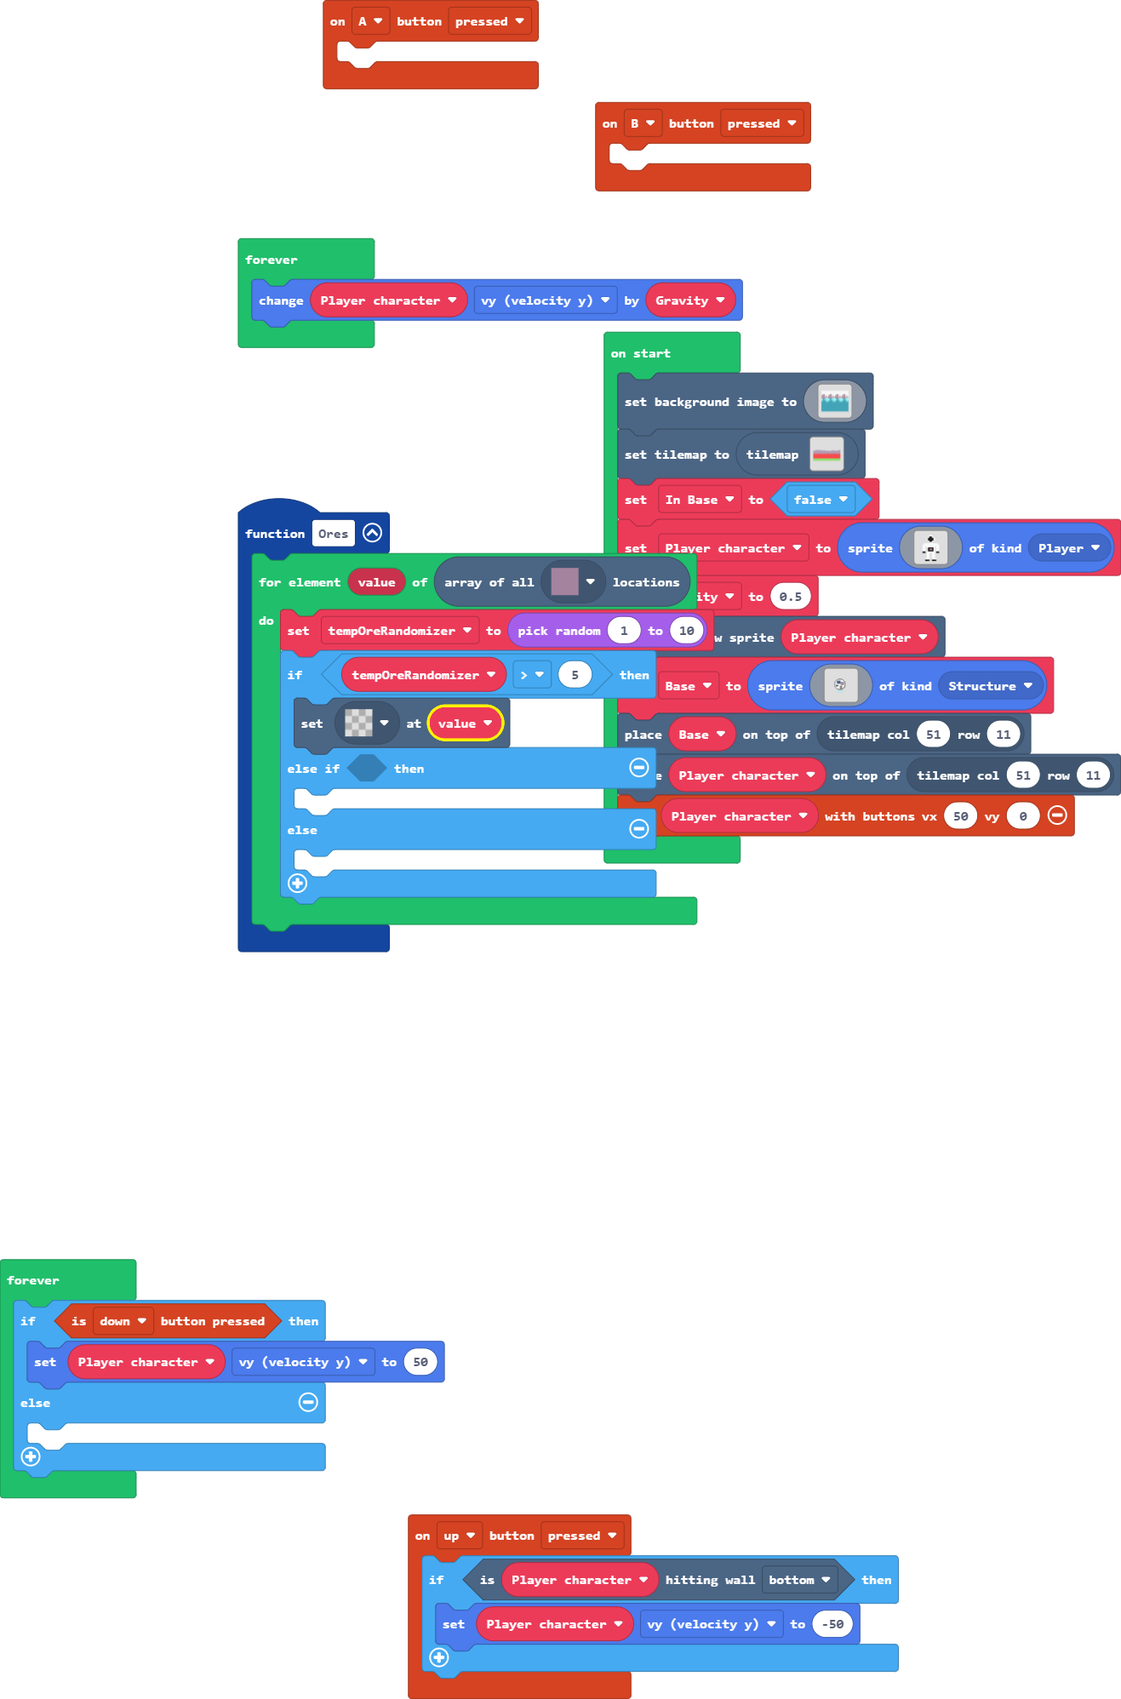
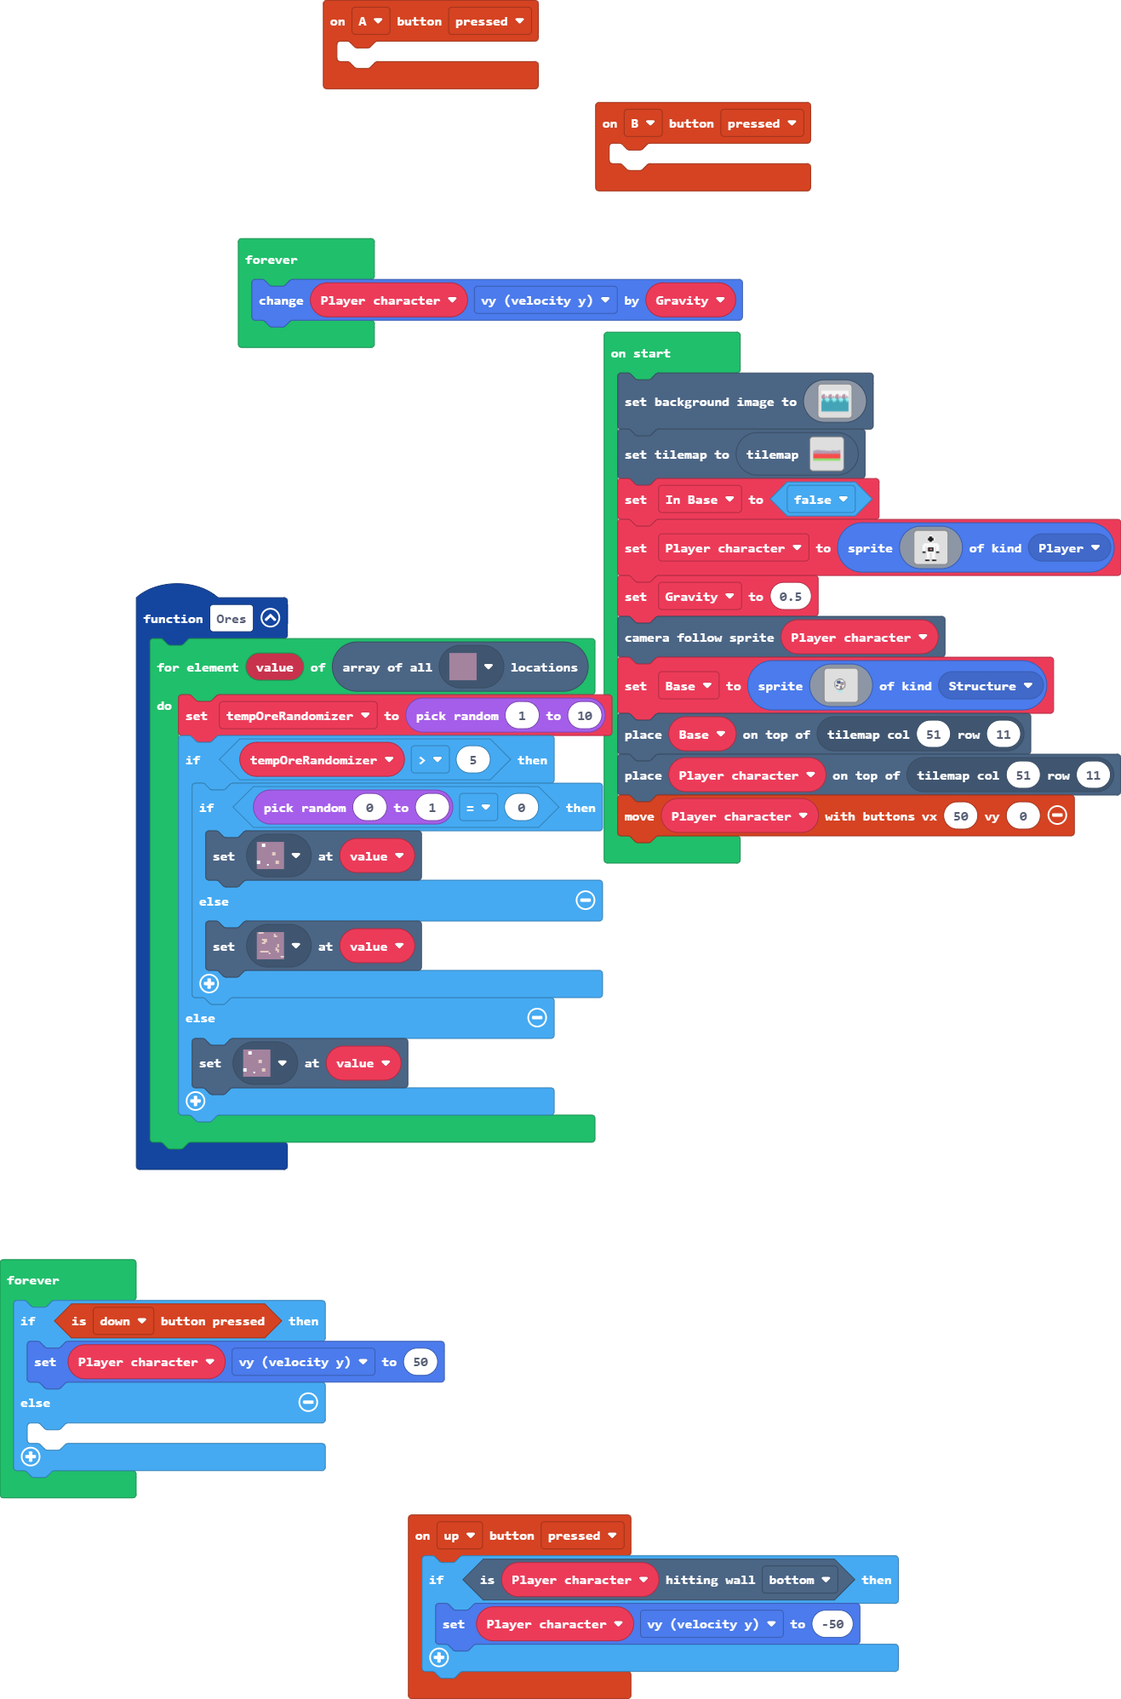
Ore function part done

Changed region(s): [[0.0934, 0.2796, 0.6538, 0.7144]]

diff --git a/tilemap.g.ts b/tilemap.g.ts
@@ -20,6 +20,8 @@ namespace myTiles {
     export const tile8 = image.ofBuffer(hex``);
     //% fixedInstance jres blockIdentity=images._tile
     export const tile9 = image.ofBuffer(hex``);
+    //% fixedInstance jres blockIdentity=images._tile
+    export const tile10 = image.ofBuffer(hex``);
 
     helpers._registerFactory("tilemap", function(name: string) {
         switch(helpers.stringTrim(name)) {
@@ -76,7 +78,7 @@ namespace myTiles {
 ..............................
 `, [myTiles.transparency16], TileScale.Sixteen);
             case "Planet part 1":
-            case "level2":return tiles.createTilemap(hex`640032000000000000000000000000000000000000000000000000000000000000000000000000000000000000000000000000000000000000000000000000000000000000000000000000000000000000000000000000000000000000000000000000000000000000000000000000000000000000000000000000000000000000000000000000000000000000000000000000000000000000000000000000000000000000000000000000000000000000000000000000000000000000000000000000000000000000000000000000000000000000000000000000000000000000000000000000000000000000000000000000000000000000000000000000000000000000000000000000000000000000000000000000000000000000000000000000000000000000000000000000000000000000000000000000000000000000000000000000000000000000000000000000000000000000000000000000000000000000000000000000000000000000000000000000000000000000000000000000000000000000000000000000000000000000000000000000000000000000000000000000000000000000000000000000000000000000000000000000000000000000000000000000000000000000000000000000000000000000000000000000000000000000000000000000000000000000000000000000000000000000000000000000000000000000000000000000000000000000000000000000000000000000000000000000000000000000000000000000000000000000000000000000000000000000000000000000000000000000000000000000000000000000000000000000000000000000000000000000000000000000000000000000000000000000000000000000000000000000000000000000000000000000000000000000000000000000000000000000000000000000000000000000000000000000000000000000000000000000000000000000000000000000000000000000000000000000000000000000000000000000000000000000000000000000000000000000000000000000000000000000000000000000000000000000000000000000000000000000000000000000000000000000000000000000000000000000000000000000000000000000000000000000000000000000000000000000000000000000000000000000000000000000000000000000000000000000000000000000000000000000000000000000000000000000000000000000000000000000000000000000000000000000000000000000000000000000000000000000000000000000000000000000000000000000000000000000000000000000000000000000000000000000000000000000000000000000000000000000000000000000000000000000000000000000000000000000000000000000000000000000000000000000000000000000000000000000000000000000000000000000000000000000000000000000000000000000000000000000000000000000000000000102020202020203000000000000000000000000000000000000000000000000000000000000000000000000000000000000000000000000000000000000000000000000000000000000000000000000000000000102020000000000000102020202020204040404040404040202020202020202020203000000000000000102020300000000000000000000000000000000000000000000000000000000000102030000000000000000000000000000000000000202020204040400000000000104040404040404040404040404040404040404040404040404040202020202020204040404030000000000000000000000000000000000000000000000010202020204040402020202020300000000000001020202020404040404040404020202020204040404040404040404040404040404040404040404040404040404040404040404040404040402020202020202020202020202020202030000000000010404040404040404040404040404020202020202040404040404040404040404040404040404040404040404040404040404040404040404040404040404040404040404040404040404040404040404040404040404040404040404040402020202020404040404040404040404040404040404040404040404040404040404040404040404040404040404040404040404040404040404040404040404040404040404040404040404040404040404040404040404040404040404040404040404040404040404040404040404040404040404040404040404040404040404040404040404040404040404040404040404040404040404040404040404040404040404040404040404040404040404040404040404040404040404040404040404040404040404040404040404040404040404040404040404040404040404040404040404040404040404040404040404040404040404040404040404040404040404040404040404040404040404040404040404040404040404040404040404040404040404040404040404040404040404040404040404040404040404040404040404040404040404040404040405050505050505050505050505050505050505050505050505050505050505050505050505050505050505050505050505050505050505050505050505050505050505050505050505050505050505050505050505050505050505050505050505050505050505050505050505050505050505050505050505050505050505050505050505050505050505050505050505050505050505050505050505050505050505050505050505050505050505050505050505050505050505050505050505050505050505050505050505050505050505050505050505050505050505050505050505050505050505050505050505050505050505050505050505050505050505050505050505050505050505050505050505050505050505050505050505050505050505050505050505050505050505050505050505050505050505050505050505050505050505050505050505050505050505050505050505050505050505050505050505050505050505050505050505050505050505050505050505050505050505050505050505050505050505050505050505050505050505050505050505050505050505050505050505050505050505050505050505050505050505050505050505050505050505050505050505050505050505050505050505050505050505050505050505050505050505050505050505050505050505050505050505050505050505050505050505050505050505050505050505050505050505050505050505050505050505050505050505050505050505050505050505050505050505050505050505050505050505050505050506060606060606060606060606060606060606060606060606060606060606060606060606060606060606060606060606060606060606060606060606060606060606060606060606060606060606060606060606060606060606060606060606060606060606060606060606060606060606060606060606060606060606060606060606060606060606060606060606060606060606060606060606060606060606060606060606060606060606060606060606060606060606060606060606060606060606060606060606060606060606060606060606060606060606060606060606060606060606060606060606060606060606060606060606060606060606060606060606060606060606060606060606060606060606060606060606060606060606060606060606060606060606060606060606060606060606060606060606060606060606060606060606060606060606060606060606060606060606060606060606060606060606060606060606060606060606060606060606060606060606060606060606060606060606060606060606060606060606060606060606060606060606060606060606060606060606060606060606060606060606060606060606060606060606060606060606060606060606060606060606060606060606060606060606060606060606060606060606060606060606060606060606060606060606060606060606060606060606060606060606060606060606060606060606060606060606060606060606060606060606060606060606060606060606060606060606060606060606060606060606060606060606060606060606060606060606060606060606060606060606060606060606060606060606060606060606060606060606060606060606060606060606060606060606060606060606060606060606060606060606060606060606060606060606060606060606060606060606060606060606060606060606060606060606060606060606060606060606060606060606060606060606060606060606060606060606060606060606060606060606060606060606060606060606060606060606060606060606060606060606060606060606060606060606060606060606060606060606060606060606060606060606060606060606060606060606060606060606060606060606060606060606060606060606060606060606060606060606060606060606060606060606060606060606060606060606060606060606060606060606060606060606060606060606060606060606060606060606060606060606060606060606060606060606060606060606060606060606060606060606060606060606060606060606060606060606060606060606060606060606060606060606060606060606060606060606060606060606060606060606060606060606060606060606060606060606060606060606060606060606060606060606060606060606060606060606060606060606060606060606060606060606060606060606060606060606060606060606060606060606060606060606060606060606060606060606060606060606060606060606060606060606060606060606060606060606060606060606060606060606060606060606060606060606060606060606060606060606060606060606060606060606060606060606060606060606060606060606060606060606060606060606060606060606060606060606060606060606060606060606060606060606060606060606060606060606060606060606060606060606060606060606060606060606060606060606060606060606060606060606060606060606060606060606060606060606060606060606060606060606060606060606060606060606060606060606060606060606060606060606060606060606060606060606060606060606060606060606060606060606060606060606060606060606060606060606060606060606060606060606060606060606060606060606060606060606060606060606060606060606060606060606060606060606060606060606060606060606060606060606060606060606060606060606060606060606060606060606060606060606060606060606060606060606060606060606060606060606060606060606060606060606060606060606060606060606060606060606060606060606060606060606060606060606060606060606060606060606060606060606060606060606060606060606060606060606060606060606060606060606060606060606060606060606060606060606060707070707070707070707070707070707070707070707070707070707070707070707070707070707070707070707070707070707070707070707070707070707070707070707070707070707070707070707070707070707070707070707070707070707070707070707070707070707070707070707070707070707070707070707070707070707070707070707070707070707070707070707070707070707070707070707070707070707070707070707070707070707070707070707070707070707070707070707070707070707070707070707070707070707070707070707070707070707070707070707070707070707070707070707070707070707070707070707070707070707070707070707070707070707070707070707070707070707070707070707070707070707070707070707070707070707070707070707070707070707070707070707070707070707070707070707070707070707070707070707070707070707070707070707070707070707070707070707070707070707070707070707070707070707070707070707070707070707070707070707070707070707070707070707070707070707070707070707070707070707070707070707070707070707070707070707070707070707070707070707070707070707070707070707070707070707070707070707070707070707070707070707070707070707070707070707070707070707070707070707070707070707070707070707070707070707070707070707070707070707070707070707070707070707070707070707070707070707070707070707070707070707070707070707070707070707070707070707070707070707070707070707070707070707070707070707070707070707070707070707070707070707070707070707070707070707070707070707070707070707070707070707070707070707070707070707070707070707070707070707070707070707070707070707070707070707070707070707070707070707070707070707070707070707070707070707070707070707070707070707070707070707070707070707070707070707070707`, img`
+            case "level2":return tiles.createTilemap(hex`640032000000000000000000000000000000000000000000000000000000000000000000000000000000000000000000000000000000000000000000000000000000000000000000000000000000000000000000000000000000000000000000000000000000000000000000000000000000000000000000000000000000000000000000000000000000000000000000000000000000000000000000000000000000000000000000000000000000000000000000000000000000000000000000000000000000000000000000000000000000000000000000000000000000000000000000000000000000000000000000000000000000000000000000000000000000000000000000000000000000000000000000000000000000000000000000000000000000000000000000000000000000000000000000000000000000000000000000000000000000000000000000000000000000000000000000000000000000000000000000000000000000000000000000000000000000000000000000000000000000000000000000000000000000000000000000000000000000000000000000000000000000000000000000000000000000000000000000000000000000000000000000000000000000000000000000000000000000000000000000000000000000000000000000000000000000000000000000000000000000000000000000000000000000000000000000000000000000000000000000000000000000000000000000000000000000000000000000000000000000000000000000000000000000000000000000000000000000000000000000000000000000000000000000000000000000000000000000000000000000000000000000000000000000000000000000000000000000000000000000000000000000000000000000000000000000000000000000000000000000000000000000000000000000000000000000000000000000000000000000000000000000000000000000000000000000000000000000000000000000000000000000000000000000000000000000000000000000000000000000000000000000000000000000000000000000000000000000000000000000000000000000000000000000000000000000000000000000000000000000000000000000000000000000000000000000000000000000000000000000000000000000000000000000000000000000000000000000000000000000000000000000000000000000000000000000000000000000000000000000000000000000000000000000000000000000000000000000000000000000000000000000000000000000000000000000000000000000000000000000000000000000000000000000000000000000000000000000000000000000000000000000000000000000000000000000000000000000000000000000000000000000000000000000000000000000000000000000000000000000000000000000000000000000000000000000000000000000000000000000000000000000000102020202020203000000000000000000000000000000000000000000000000000000000000000000000000000000000000000000000000000000000000000000000000000000000000000000000000000000000102020000000000000102020202020204040404040404040202020202020202020203000000000000000102020300000000000000000000000000000000000000000000000000000000000102030000000000000000000000000000000000000202020204040400000000000104040404040404040404040404040404040404040404040404040202020202020204040404030000000000000000000000000000000000000000000000010202020204040402020202020300000000000001020202020404040404040404020202020204040404040404040404040404040404040404040404040404040404040404040404040404040402020202020202020202020202020202030000000000010404040404040404040404040404020202020202040404040404040404040404040404040404040404040404040404040404040404040404040404040404040404040404040404040404040404040404040404040404040404040404040402020202020404040404040404040404040404040404040404040404040404040404040404040404040404040404040404040404040404040404040404040404040404040404040404040404040404040404040404040404040404040404040404040404040404040404040404040404040404040404040404040404040404040404080404040404040404040404040404040404040404040404040404040404040404040404040404040404040404040404040404040404040404040404040404040404040404040404040404040404040404040404040404040404040404040404040404040404040404040404040404040404040404040404040404040404040404040404040404040404040404040404040404040404040404040404040404040404040404040404040404040404040404040404040404040404040404040404040404040404040404040404040404040405050505050505050505050505050505050505050505050505050505050505050505050505050505050505050505050505050505050505050505050505050505050505050505050505050505050505050505050505050505050505050505050505050505050505050505050505050505050505050505050505050505050505050505050505050505050505050505050505050505050505050505050505050505050505050505050505050505050505050505050505050505050505050505050505050505050505050505050505050505050505050505050505050505050505050505050505050505050505050505050505050505050505050505050505050505050505050505050505050505050505050505050505050505050505050505050505050505050505050505050505050505050505050505050505050505050505050505050505050505050505050505050505050505050505050505050505050505050505050505050505050505050505050505050505050505050505050505050505050505050505050505050505050505050505050505050505050505050505050505050505050505050505050505050505050505050505050505050505050505050505050505050505050505050505050505050505050505050505050505050505050505050505050505050505050505050505050505050505050505050505050505050505050505050505050505050505050505050505050505050505050505050505050505050505050505050505050505050505050505050505050505050505050505050505050505050505050505050505050505050506060606060606060606060606060606060606060606060606060606060606060606060606060606060606060606060606060606060606060606060606060606060606060606060606060606060606060606060606060606060606060606060606060606060606060606060606060606060606060606060606060606060606060606060606060606060606060606060606060606060606060606060606060606060606060606060606060606060606060606060606060606060606060606060606060606060606060606060606060606060606060606060606060606060606060606060606060606060606060606060606060606060606060606060606060606060606060606060606060606060606060606060606060606060606060606060606060606060606060606060606060606060606060606060606060606060606060606060606060606060606060606060606060606060606060606060606060606060606060606060606060606060606060606060606060606060606060606060606060606060606060606060606060606060606060606060606060606060606060606060606060606060606060606060606060606060606060606060606060606060606060606060606060606060606060606060606060606060606060606060606060606060606060606060606060606060606060606060606060606060606060606060606060606060606060606060606060606060606060606060606060606060606060606060606060606060606060606060606060606060606060606060606060606060606060606060606060606060606060606060606060606060606060606060606060606060606060606060606060606060606060606060606060606060606060606060606060606060606060606060606060606060606060606060606060606060606060606060606060606060606060606060606060606060606060606060606060606060606060606060606060606060606060606060606060606060606060606060606060606060606060606060606060606060606060606060606060606060606060606060606060606060606060606060606060606060606060606060606060606060606060606060606060606060606060606060606060606060606060606060606060606060606060606060606060606060606060606060606060606060606060606060606060606060606060606060606060606060606060606060606060606060606060606060606060606060606060606060606060606060606060606060606060606060606060606060606060606060606060606060606060606060606060606060606060606060606060606060606060606060606060606060606060606060606060606060606060606060606060606060606060606060606060606060606060606060606060606060606060606060606060606060606060606060606060606060606060606060606060606060606060606060606060606060606060606060606060606060606060606060606060606060606060606060606060606060606060606060606060606060606060606060606060606060606060606060606060606060606060606060606060606060606060606060606060606060606060606060606060606060606060606060606060606060606060606060606060606060606060606060606060606060606060606060606060606060606060606060606060606060606060606060606060606060606060606060606060606060606060606060606060606060606060606060606060606060606060606060606060606060606060606060606060606060606060606060606060606060606060606060606060606060606060606060606060606060606060606060606060606060606060606060606060606060606060606060606060606060606060606060606060606060606060606060606060606060606060606060606060606060606060606060606060606060606060606060606060606060606060606060606060606060606060606060606060606060606060606060606060606060606060606060606060606060606060606060606060606060606060606060606060606060606060606060606060606060606060606060606060606060606060606060606060606060606060606060606060606060606060606060606060606060606060606060606060606060606060606060606060606060606060606060606060606060606060606060606060606060606060606060606060606060606060606060606060606060606060606060606060606060606060606060606060606060606060606060606060707070707070707070707070707070707070707070707070707070707070707070707070707070707070707070707070707070707070707070707070707070707070707070707070707070707070707070707070707070707070707070707070707070707070707070707070707070707070707070707070707070707070707070707070707070707070707070707070707070707070707070707070707070707070707070707070707070707070707070707070707070707070707070707070707070707070707070707070707070707070707070707070707070707070707070707070707070707070707070707070707070707070707070707070707070707070707070707070707070707070707070707070707070707070707070707070707070707070707070707070707070707070707070707070707070707070707070707070707070707070707070707070707070707070707070707070707070707070707070707070707070707070707070707070707070707070707070707070707070707070707070707070707070707070707070707070707070707070707070707070707070707070707070707070707070707070707070707070707070707070707070707070707070707070707070707070707070707070707070707070707070707070707070707070707070707070707070707070707070707070707070707070707070707070707070707070707070707070707070707070707070707070707070707070707070707070707070707070707070707070707070707070707070707070707070707070707070707070707070707070707070707070707070707070707070707070707070707070707070707070707070707070707070707070707070707070707070707070707070707070707070707070707070707070707070707070707070707070707070707070707070707070707070707070707070707070707070707070707070707070707070707070707070707070707070707070707070707070707070707070707070707070707070707070707070707070707070707070707070707070707070707070707070707070707070707070707`, img`
 ....................................................................................................
 ....................................................................................................
 ....................................................................................................
@@ -127,7 +129,7 @@ namespace myTiles {
 2222222222222222222222222222222222222222222222222222222222222222222222222222222222222222222222222222
 2222222222222222222222222222222222222222222222222222222222222222222222222222222222222222222222222222
 2222222222222222222222222222222222222222222222222222222222222222222222222222222222222222222222222222
-`, [myTiles.transparency16,myTiles.tile1,myTiles.tile2,myTiles.tile3,myTiles.tile5,myTiles.tile7,myTiles.tile8,myTiles.tile9], TileScale.Sixteen);
+`, [myTiles.transparency16,myTiles.tile1,myTiles.tile2,myTiles.tile3,myTiles.tile5,myTiles.tile7,myTiles.tile8,myTiles.tile9,myTiles.tile10], TileScale.Sixteen);
         }
         return null;
     })
@@ -153,6 +155,8 @@ namespace myTiles {
             case "tile8":return tile8;
             case "myTile7":
             case "tile9":return tile9;
+            case "myTile8":
+            case "tile10":return tile10;
         }
         return null;
     })

diff --git a/main.ts b/main.ts
@@ -16,11 +16,13 @@ function Ores () {
     for (let value of tiles.getTilesByType(assets.tile`myTile5`)) {
         tempOreRandomizer = randint(1, 10)
         if (tempOreRandomizer > 5) {
-            tiles.setTileAt(value, assets.tile`transparency16`)
-        } else if (false) {
-        	
+            if (randint(0, 1) == 0) {
+                tiles.setTileAt(value, assets.tile`myTile3`)
+            } else {
+                tiles.setTileAt(value, assets.tile`myTile8`)
+            }
         } else {
-        	
+            tiles.setTileAt(value, assets.tile`myTile3`)
         }
     }
 }
